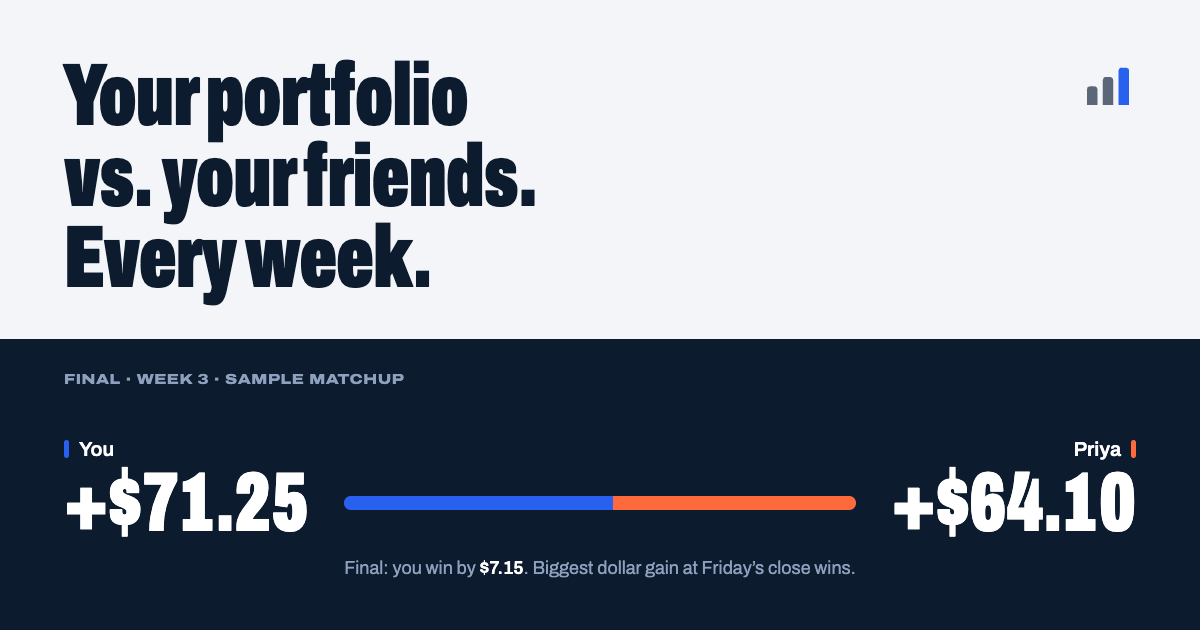
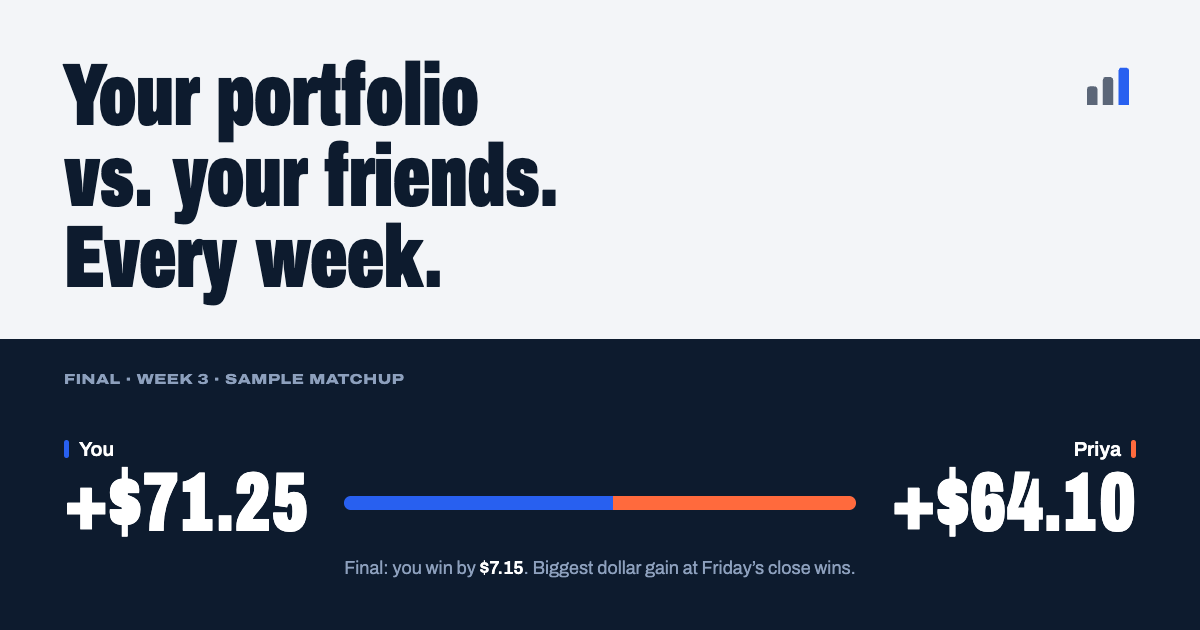
fix(web): landing design review: word spacing, self-hosted display face
Design Lead review of e24ed3d (DESIGN-CHANGES):

1. Word spacing: the hero family (headline, section titles, launch title,
   final-panel line) and the OG image now use type.hero.wordSpacing. The
   h2 and launch-title sizes are named custom properties derived from the
   score tokens (--lp-h2-size, --lp-launch-title-size), and the ticker
   loop is a named constant (--lp-ticker-loop).

2. No visible font swap in the signature moment: the condensed family
   (wdth 62 / wght 900) is self-hosted as an 11,620-byte Latin woff2
   subset of Archivo (OFL; public/fonts/archivo/ has the licence and a
   README with the exact subsetting commands, from the mobile
   foundation's instance, commit 758ebd9). It is preloaded as the first
   tag in the prerendered <head> and declared font-display: block, so
   the first visible headline frame is condensed. The hero waits for it
   (document.fonts.load, capped at 600 milliseconds) before counting, so
   the count never swaps faces. Cold, throttled (150ms RTT, 1.6Mbps, 4x
   CPU): the font lands at ~0.42s, before first paint at ~0.5s. Reading
   text and tags still come from Google Fonts asynchronously.

Minor: the ticker viewport fades its edges (alpha mask) instead of
clipping an item fragment beside the pause control.

Changed region(s): [[0.1233, 0.0905, 0.4625, 0.4825]]

diff --git a/apps/web/src/pages/landing/landing.css b/apps/web/src/pages/landing/landing.css
@@ -36,6 +36,25 @@
   line-gap-override: 0%;
 }
 
+/* The display face: Archivo at wdth 62 / wght 900, self-hosted as an
+   11.6 KB Latin subset (public/fonts/archivo/README.md) and preloaded from
+   the prerendered HTML. Everything in the condensed family (headline,
+   section titles, scores) uses only this cut. `block` rather than `swap`:
+   with the preload it arrives alongside the CSS, so the first VISIBLE frame
+   of the headline is already condensed and the hero count-up never swaps
+   faces mid-sequence (Design Lead, phase 3a review). The browser caps the
+   block period at ~3s, after which the tuned fallback below shows. */
+@font-face {
+  font-family: 'Archivo Display';
+  src: url('/fonts/archivo/archivo-condensed-black-latin.woff2') format('woff2');
+  font-weight: 900;
+  font-stretch: 62%;
+  font-style: normal;
+  font-display: block;
+  unicode-range: U+0000-00FF, U+0131, U+0152-0153, U+02BB-02BC, U+02C6, U+02DA, U+02DC, U+0304, U+0308, U+0329,
+    U+2000-206F, U+20AC, U+2122, U+2191, U+2193, U+2212, U+2215, U+FEFF, U+FFFD;
+}
+
 /* The page background behind the root (overscroll, short pages). Scoped
    with :has() so it only applies while the landing is mounted. */
 body:has(> #root > .lp) {
@@ -46,12 +65,19 @@ body:has(> #root > .lp) {
 .lp {
   --lp-font: 'Archivo', 'Archivo Fallback', ui-sans-serif, system-ui, -apple-system, 'Segoe UI', Roboto, Helvetica,
     Arial, sans-serif;
-  --lp-font-condensed: 'Archivo', 'Archivo Condensed Fallback', 'Archivo Fallback', ui-sans-serif, system-ui,
-    sans-serif;
+  --lp-font-condensed: 'Archivo Display', 'Archivo', 'Archivo Condensed Fallback', 'Archivo Fallback', ui-sans-serif,
+    system-ui, sans-serif;
   /* Primitives read --sp-type-family; give them the tuned fallback too. */
   --sp-type-family: var(--lp-font);
   --lp-gutter: var(--sp-space-6);
   --lp-section-gap: calc(var(--sp-space-11) + var(--sp-space-5));
+  /* Display sizes for the hero family below the headline, derived from the
+     score tokens (Design Lead-approved landing calls, phase 3a). */
+  --lp-h2-size: clamp(var(--sp-type-score-lg-size), 5.2vw, calc(var(--sp-type-score-xl-size) * 1.25));
+  --lp-launch-title-size: clamp(var(--sp-type-score-xl-size), 6.4vw, calc(var(--sp-type-score-xl-size) * 1.6));
+  /* Ticker loop length: content pacing (a reading speed of ~40px/s across
+     the doubled list), not an animation duration, so not a motion token. */
+  --lp-ticker-loop: 64s;
 
   min-height: 100vh;
   background-color: var(--sp-color-bg-app);
@@ -250,6 +276,7 @@ body:has(> #root > .lp) {
   font-weight: var(--sp-type-hero-weight);
   font-stretch: var(--sp-type-hero-stretch);
   letter-spacing: var(--sp-type-hero-tracking);
+  word-spacing: var(--sp-type-hero-word-spacing);
   color: var(--sp-color-text-primary);
 }
 
@@ -544,6 +571,10 @@ body:has(> #root > .lp) {
   overflow-x: auto;
   overflow-y: hidden;
   scrollbar-width: none;
+  /* Items fade out at the edges instead of leaving a clipped fragment
+     beside the pause control. A mask is alpha only — no colour. */
+  -webkit-mask-image: linear-gradient(to right, transparent, black var(--sp-space-8), black calc(100% - var(--sp-space-8)), transparent);
+  mask-image: linear-gradient(to right, transparent, black var(--sp-space-8), black calc(100% - var(--sp-space-8)), transparent);
 }
 
 .lp-ticker__viewport::-webkit-scrollbar {
@@ -557,8 +588,7 @@ body:has(> #root > .lp) {
 .lp-ticker__track {
   display: flex;
   width: max-content;
-  /* Content pacing (reading speed), not a motion token: ~40px/s. */
-  animation: lp-ticker-loop 64s linear infinite;
+  animation: lp-ticker-loop var(--lp-ticker-loop) linear infinite;
 }
 
 .lp-ticker__list {
@@ -615,11 +645,12 @@ body:has(> #root > .lp) {
 
 .lp-h2 {
   font-family: var(--lp-font-condensed);
-  font-size: clamp(var(--sp-type-score-lg-size), 5.2vw, calc(var(--sp-type-score-xl-size) * 1.25));
+  font-size: var(--lp-h2-size);
   line-height: var(--sp-type-hero-line);
   font-weight: var(--sp-type-hero-weight);
   font-stretch: var(--sp-type-hero-stretch);
   letter-spacing: var(--sp-type-hero-tracking);
+  word-spacing: var(--sp-type-hero-word-spacing);
   color: var(--sp-color-text-primary);
 }
 
@@ -814,6 +845,7 @@ body:has(> #root > .lp) {
 
 .lp-panel__final-line {
   font-family: var(--lp-font-condensed);
+  word-spacing: var(--sp-type-hero-word-spacing);
   font-size: var(--sp-type-score-lg-size);
   line-height: var(--sp-type-score-lg-line);
   font-weight: var(--sp-type-score-lg-weight);
@@ -1161,11 +1193,12 @@ body:has(> #root > .lp) {
 
 .lp-launch__title {
   font-family: var(--lp-font-condensed);
-  font-size: clamp(var(--sp-type-score-xl-size), 6.4vw, calc(var(--sp-type-score-xl-size) * 1.6));
+  font-size: var(--lp-launch-title-size);
   line-height: var(--sp-type-hero-line);
   font-weight: var(--sp-type-hero-weight);
   font-stretch: var(--sp-type-hero-stretch);
   letter-spacing: var(--sp-type-hero-tracking);
+  word-spacing: var(--sp-type-hero-word-spacing);
   color: var(--sp-color-text-on-game-primary);
 }
 

diff --git a/apps/web/src/pages/landing/Hero.tsx b/apps/web/src/pages/landing/Hero.tsx
@@ -6,8 +6,13 @@ import { MatchBoard } from './MatchBoard';
 import { Ticker } from './Ticker';
 import { useLandingMotion } from './hooks';
 import { HERO } from './sampleData';
+import { displayFontReady } from './head';
 
 type Phase = 'kickoff' | 'counting' | 'settled';
+
+/** Longest the sequence waits for the display face before running anyway
+ * (Design Lead, phase 3a review). A load-gating cap, not an animation. */
+const FONT_WAIT_MS = 600;
 
 /** Milliseconds left on the CSS band wipe (landing.css `lp-band-wipe`,
  * `slow`), read from the running animation itself. The wipe starts at
@@ -48,18 +53,29 @@ function HeroScoreboard() {
       return;
     }
     const ms = (s: number) => s * 1000;
-    const start = msUntilWipeEnds(document.querySelector('.lp-band'));
-    const timers = [
-      window.setTimeout(() => setPhase('counting'), start),
-      // The bar follows the count's opening beat; spring.lively settles
-      // in ~0.6s, inside the count's `feature` window.
-      window.setTimeout(() => setTugLive(true), start + ms(duration.quick)),
-      window.setTimeout(() => setPhase('settled'), start + ms(duration.feature)),
-      // The chyron starts sliding as the count lands, so the whole
-      // sequence is wipe + feature + base − quick ≈ 1.16s after first paint.
-      window.setTimeout(() => setChyron(HERO.chyron), start + ms(duration.feature - duration.quick)),
-    ];
+    // The count renders in the display face, so it waits for that face as
+    // well as for the band wipe: whichever finishes later. The font wait is
+    // capped (FONT_WAIT_MS) so a slow font never holds the sequence back.
+    const wipeLeft = msUntilWipeEnds(document.querySelector('.lp-band'));
+    const t0 = performance.now();
+    let cancelled = false;
+    let timers: number[] = [];
+    displayFontReady(FONT_WAIT_MS).then(() => {
+      if (cancelled) return;
+      const start = Math.max(0, wipeLeft - (performance.now() - t0));
+      timers = [
+        window.setTimeout(() => setPhase('counting'), start),
+        // The bar follows the count's opening beat; spring.lively settles
+        // in ~0.6s, inside the count's `feature` window.
+        window.setTimeout(() => setTugLive(true), start + ms(duration.quick)),
+        window.setTimeout(() => setPhase('settled'), start + ms(duration.feature)),
+        // The chyron starts sliding as the count lands, so the whole
+        // sequence is wipe + feature + base − quick ≈ 1.16s after first paint.
+        window.setTimeout(() => setChyron(HERO.chyron), start + ms(duration.feature - duration.quick)),
+      ];
+    });
     return () => {
+      cancelled = true;
       timers.forEach(window.clearTimeout);
       startedRef.current = false;
     };
@@ -79,7 +95,14 @@ function HeroScoreboard() {
       oppName={HERO.opponent.name}
       youScore={<CountUp from={0} to={HERO.you.gain} run={running} instant={reduced} className="lp-board__score" />}
       oppScore={
-        <CountUp from={0} to={HERO.opponent.gain} run={running} instant={reduced} align="end" className="lp-board__score" />
+        <CountUp
+          from={0}
+          to={HERO.opponent.gain}
+          run={running}
+          instant={reduced}
+          align="end"
+          className="lp-board__score"
+        />
       }
       tugYou={you}
       tugOpp={opp}

diff --git a/apps/web/src/pages/landing/head.ts b/apps/web/src/pages/landing/head.ts
@@ -11,6 +11,12 @@ import { color } from '../../design/tokens';
  * URL; update this with the domain if it changes. */
 export const SITE_ORIGIN = 'https://fantasy-stock-app.vercel.app';
 
+/** The self-hosted display face (wdth 62 / wght 900 Latin subset, see
+ * public/fonts/archivo/README.md). landing.css declares it as
+ * 'Archivo Display'; the prerendered HTML preloads it (`preload` below). */
+export const DISPLAY_FONT_URL = '/fonts/archivo/archivo-condensed-black-latin.woff2';
+export const DISPLAY_FONT_FAMILY = 'Archivo Display';
+
 export const ARCHIVO_STYLESHEET =
   'https://fonts.googleapis.com/css2?family=Archivo:wdth,wght@62..125,400..900&display=swap';
 
@@ -18,6 +24,9 @@ export const ARCHIVO_STYLESHEET =
  * (paused builds only). Title and description derive from `brand.name`,
  * so the product name stays one swappable token. */
 export const landingHead = {
+  /** Goes first in <head>, so the display face is requested alongside the
+   * page CSS rather than after it. */
+  preload: `<link rel="preload" href="${DISPLAY_FONT_URL}" as="font" type="font/woff2" crossorigin />`,
   title: `${brand.name}: fantasy leagues for the stock market`,
   description: `${brand.name} is a fantasy league for the stock market. Draft real stocks, face one friend each week, and win on dollar gain at Friday's close. Launching soon.`,
   tags: [
@@ -39,6 +48,20 @@ export const landingHead = {
     '<meta name="twitter:card" content="summary_large_image" />',
   ],
 };
+
+/** Resolves when the display face is ready, or after `timeoutMs` —
+ * whichever comes first. The hero sequence waits on this so its count-up
+ * never swaps faces mid-count, but never waits longer than the timeout
+ * (Design Lead: wait about 600 milliseconds, then run the sequence anyway). */
+export function displayFontReady(timeoutMs: number): Promise<void> {
+  if (typeof document === 'undefined' || !document.fonts?.load) return Promise.resolve();
+  const loaded = document.fonts.load(`900 56px "${DISPLAY_FONT_FAMILY}"`).then(
+    () => undefined,
+    () => undefined,
+  );
+  const timeout = new Promise<void>((resolve) => window.setTimeout(resolve, timeoutMs));
+  return Promise.race([loaded, timeout]);
+}
 
 /** Client-side fallback for when the page wasn't prerendered (vite dev, or
  * the unpaused app's Home route rendering the landing): add the same

diff --git a/apps/web/scripts/og/og-image.html b/apps/web/scripts/og/og-image.html
@@ -6,13 +6,15 @@
      screenshotting this file at 1200×630, device scale 1, after fonts load. -->
 <html><head><meta charset="utf-8">
 <link rel="stylesheet" href="https://fonts.googleapis.com/css2?family=Archivo:wdth,wght@62..125,400..900&display=block">
+<style>@font-face { font-family: "Archivo Display"; src: url("../../public/fonts/archivo/archivo-condensed-black-latin.woff2") format("woff2"); font-weight: 900; font-stretch: 62%; }</style>
 <link rel="stylesheet" href="../../src/styles/tokens.css">
 <style>
   * { box-sizing: border-box; margin: 0; }
   html, body { width: 1200px; height: 630px; overflow: hidden; }
   body { background: var(--sp-color-bg-app); font-family: 'Archivo', sans-serif; color: var(--sp-color-text-primary); display: grid; grid-template-rows: auto 1fr; }
   .top { padding: 56px 64px 40px; display: flex; align-items: flex-end; justify-content: space-between; gap: 40px; }
-  h1 { font-size: 88px; line-height: 0.92; font-weight: 900; font-stretch: 62%; letter-spacing: -0.01em; }
+  h1, .score { font-family: 'Archivo Display', 'Archivo', sans-serif; }
+  h1 { font-size: 88px; line-height: var(--sp-type-hero-line); font-weight: 900; font-stretch: 62%; letter-spacing: var(--sp-type-hero-tracking); word-spacing: var(--sp-type-hero-word-spacing); }
   .mark { align-self: flex-start; }
   .band { background: var(--sp-color-surface-game-base); color: var(--sp-color-text-on-game-primary); padding: 32px 64px 36px; display: grid; gap: 16px; }
   .tag { font-size: 14px; line-height: 18px; font-weight: 800; font-stretch: 125%; letter-spacing: 0.04em; text-transform: uppercase; color: var(--sp-color-text-on-game-secondary); }
@@ -27,6 +29,7 @@
   .tug { height: 14px; border-radius: 99px; overflow: hidden; display: flex; margin-bottom: 32px; background: var(--sp-color-surface-game-line); }
   .tug .y { width: 52.6%; background: var(--sp-color-team-you-base); }
   .tug .o { flex: 1; background: var(--sp-color-team-opponent); }
+  .band .score { word-spacing: var(--sp-type-hero-word-spacing); }
   .lead { text-align: center; font-size: 18px; color: var(--sp-color-text-on-game-secondary); }
   .lead b { color: var(--sp-color-text-on-game-primary); font-weight: 600; }
 </style></head>

diff --git a/apps/web/public/fonts/archivo/README.md b/apps/web/public/fonts/archivo/README.md
@@ -1,0 +1,40 @@
+# Archivo Condensed Black: self-hosted Latin subset (landing display face)
+
+`archivo-condensed-black-latin.woff2` (11,620 bytes) is the landing page's display face: every piece of type in
+the `type.hero` / `type.score.*` family (62% width, 900 weight). That covers the hero headline, section titles
+and scoreboard numbers. It is self-hosted and preloaded from the prerendered HTML, so the condensed face is ready
+for the first visible frame and the hero count-up never swaps fonts mid-sequence (Design Lead, phase 3a review,
+2026-09-27). Reading text (100% width) and broadcast tags (125%) still come from Google Fonts' Archivo variable
+font, loaded asynchronously.
+
+**Licence:** SIL Open Font License 1.1. See [`OFL.txt`](OFL.txt), copied verbatim from Google Fonts' `ofl/archivo/`.
+No Reserved Font Name is declared, so the subset may keep the name.
+
+**Provenance:** the static instance `Archivo-Condensed-Black.ttf` (wdth 62, wght 900; SHA-256
[1 lines of base64/hex data omitted]
+`https://github.com/google/fonts/blob/main/ofl/archivo/Archivo%5Bwdth,wght%5D.ttf`. Its README
+(`apps/mobile/assets/fonts/archivo/README.md`, commit `758ebd9` on `ui/foundation-mobile`) has the instancing
+script. This file is that instance, subset to Latin.
+
+## Reproducing (tooling in a scratch directory, never in the repo)
+
+```bash
+python3 -m venv venv
+./venv/bin/pip install fonttools==4.60.2 brotli
+
+git show 758ebd9:apps/mobile/assets/fonts/archivo/Archivo-Condensed-Black.ttf > Archivo-Condensed-Black.ttf
+# or re-cut it from the variable font with the mobile README's instancer script ({"wdth": 62, "wght": 900})
+
+./venv/bin/pyftsubset Archivo-Condensed-Black.ttf \
+  --unicodes="U+0000-00FF,U+0131,U+0152-0153,U+02BB-02BC,U+02C6,U+02DA,U+02DC,U+0304,U+0308,U+0329,U+2000-206F,U+20AC,U+2122,U+2191,U+2193,U+2212,U+2215,U+FEFF,U+FFFD" \
+  --layout-features="kern,liga,clig,calt,ccmp,locl,mark,mkmk,tnum,lnum,case" \
+  --flavor=woff2 --no-hinting --desubroutinize \
+  --output-file=archivo-condensed-black-latin.woff2
+```
+
+The unicode range is Google Fonts' `latin` subset. It includes U+2212 (the minus the money formatter uses) and the
+curly quotes the copy uses. `tnum` is kept because scores render with `tabular-nums`. Expected SHA-256 of the output:
[1 lines of base64/hex data omitted]
+
+Used by `src/pages/landing/landing.css` (`@font-face 'Archivo Display'`) and preloaded by
+`scripts/prerender-landing.mjs` (via `DISPLAY_FONT_URL` in `src/pages/landing/head.ts`).
